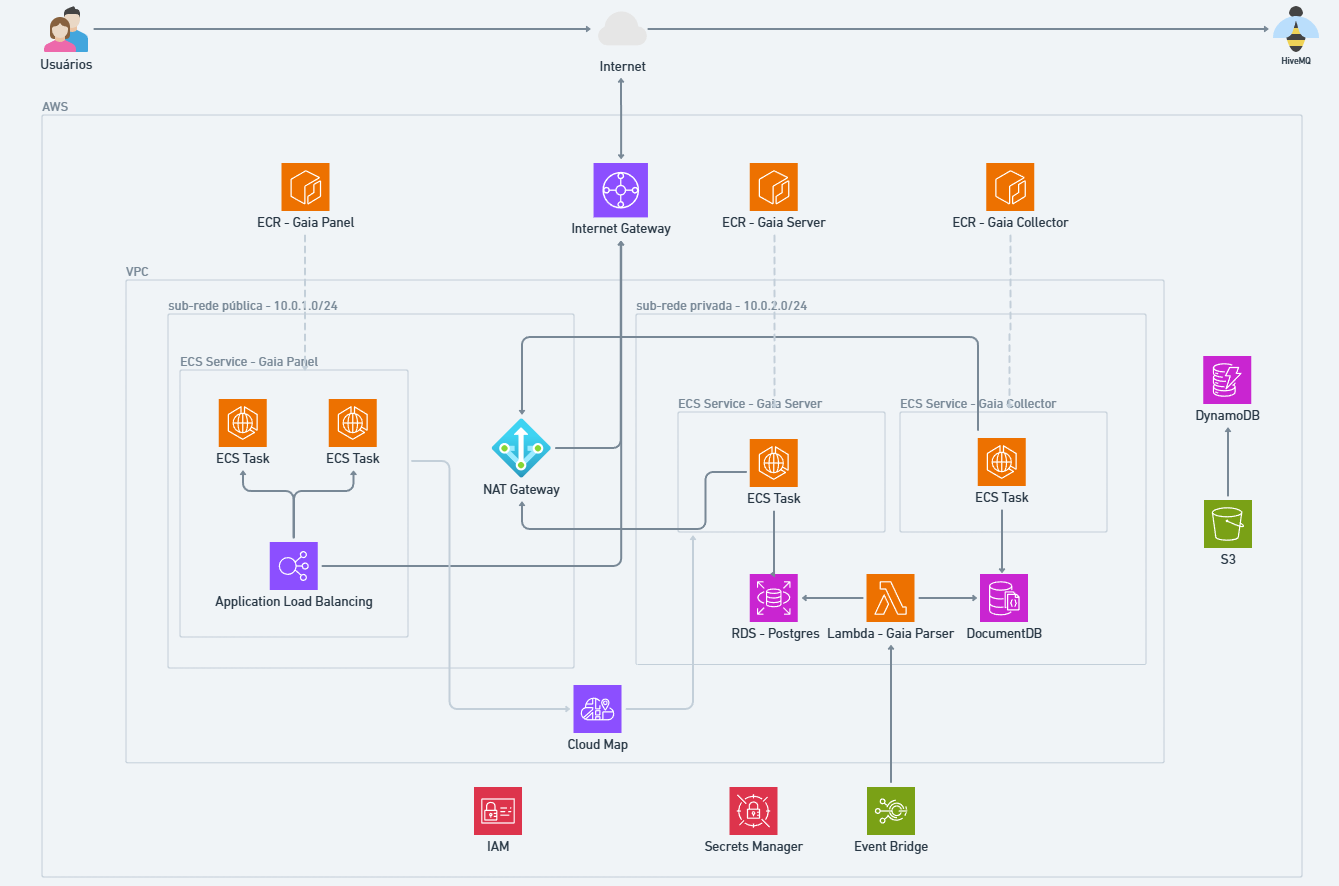
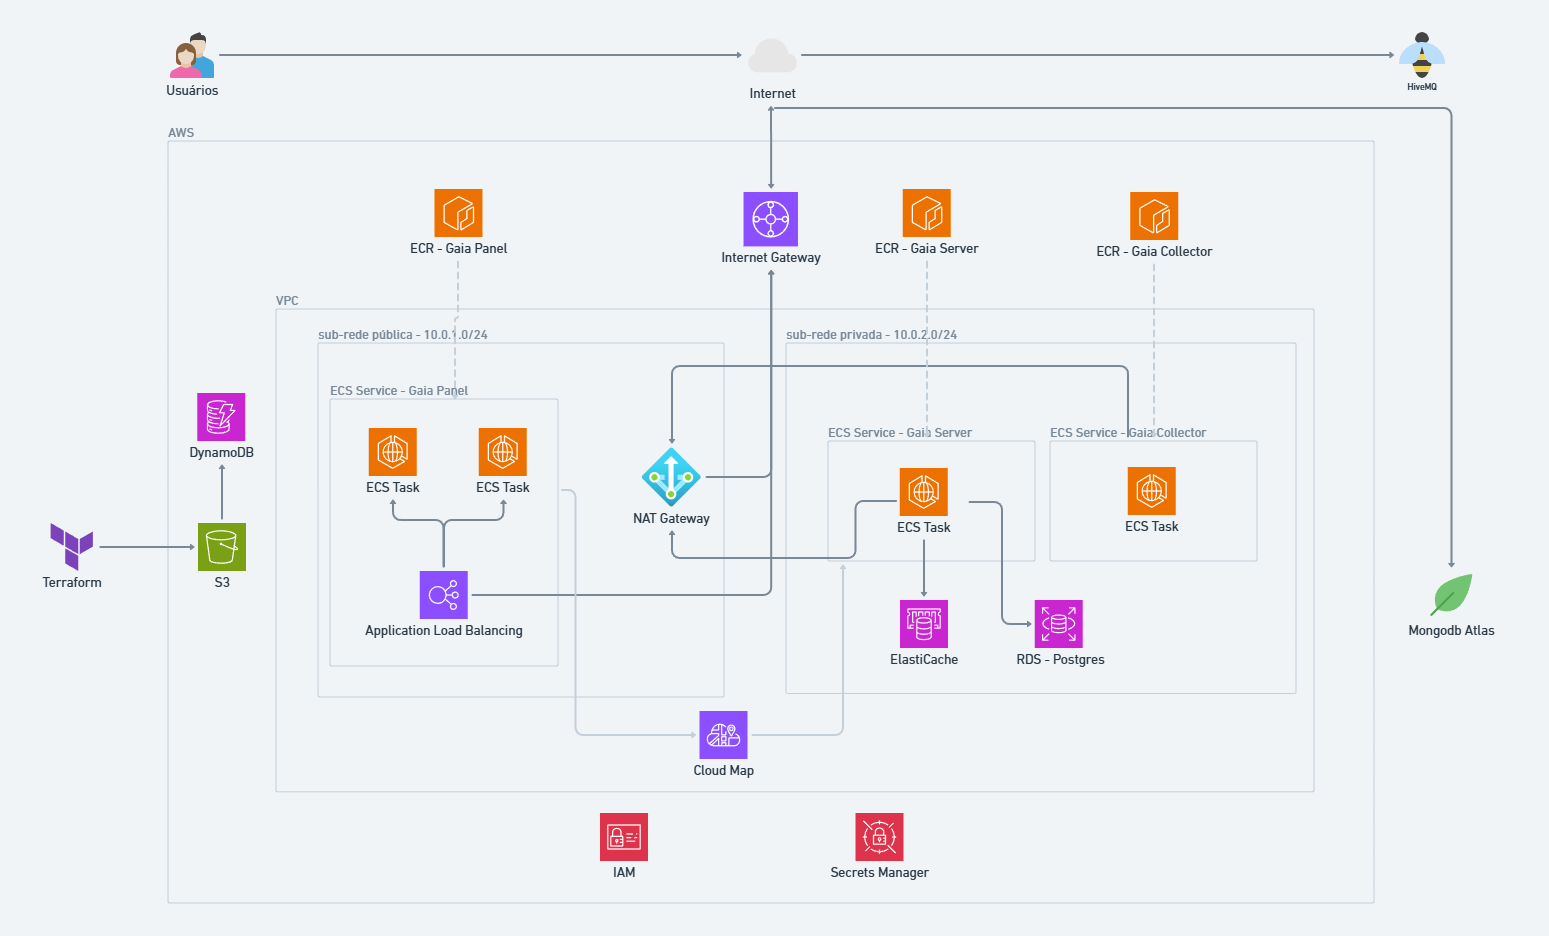
chore: update infra diagram

diff --git a/README.md b/README.md
@@ -12,20 +12,28 @@
 - [Visão Geral](#visão-geral)
 - [Diagrama da Arquitetura](#diagrama-da-arquitetura)
 - [Arquitetura da Infraestrutura](#arquitetura-da-infraestrutura)
-  - [1. A Fundação: Rede Segura (VPC)](#1-a-fundação-rede-segura-vpc)
-  - [2. A Camada Pública: Interação com o Mundo](#2-a-camada-pública-interação-com-o-mundo)
-  - [3. A Camada Privada: O "Cofre" Seguro](#3-a-camada-privada-o-cofre-seguro)
-  - [4. A "Cola": Comunicação e Segurança](#4-a-cola-comunicação-e-segurança)
-  - [5. A Automação: O "Piloto Automático"](#5-a-automação-o-piloto-automático)
+  - [1. Rede e VPC](#1-rede-e-vpc)
+  - [2. Camada Pública](#2-camada-pública)
+  - [3. Camada Privada](#3-camada-privada)
+  - [4. Observabilidade e Custos](#4-observabilidade-e-custos)
+  - [5. Segurança e Segredos](#5-segurança-e-segredos)
 - [Componentes Implementados](#componentes-implementados)
+  - [Provisionados](#provisionados)
+  - [Planejados](#planejados)
 - [Como Usar](#como-usar)
+  - [Pré-requisitos](#pré-requisitos)
+  - [Preparar o Backend Remoto do Terraform](#preparar-o-backend-remoto-do-terraform)
+  - [Configurar Segredos no AWS Secrets Manager](#configurar-segredos-no-aws-secrets-manager)
+  - [Execução Manual](#execução-manual)
+- [Pipelines CI/CD](#pipelines-cicd)
 - [Estrutura do Projeto](#estrutura-do-projeto)
+- [Principais Saídas](#principais-saídas)
 
 ---
 
 ## 🎯 Visão Geral
 
-Sua infraestrutura na AWS foi projetada para hospedar um ecossistema de aplicações (Gaia) de forma segura e escalável. Ela utiliza um modelo de **"defesa em camadas"**, separando os serviços que precisam ser públicos dos serviços de backend e bancos de dados, que permanecem privados e protegidos. Todo o ambiente é gerenciado como código (IaC) com Terraform e implantado automaticamente com pipelines de CI/CD no GitHub Actions.
+A infraestrutura da plataforma Gaia é descrita integralmente em Terraform e provisionada na AWS com foco em segurança, escalabilidade e automação. O desenho separa cargas públicas e privadas em sub-redes distintas, aproveitando Fargate para execução dos contêineres e serviços gerenciados para banco de dados, cache e observabilidade. Os pipelines em GitHub Actions garantem que qualquer alteração passe por validação e deployments consistentes entre ambientes `dev` (staging) e `prod`.
 
 ---
 
@@ -37,70 +45,55 @@ Sua infraestrutura na AWS foi projetada para hospedar um ecossistema de aplicaç
 
 ## 🏗 Arquitetura da Infraestrutura
 
-### 1. A Fundação: Rede Segura (VPC)
+### 1. Rede e VPC
 
-A base de toda a sua infraestrutura é uma **Virtual Private Cloud (VPC)** customizada, que funciona como sua própria rede isolada na AWS. Ela é dividida em:
+- VPC dedicada (`10.0.0.0/16`) com DNS habilitado e quatro sub-redes (duas públicas, duas privadas) distribuídas entre Zonas de Disponibilidade.
+- Internet Gateway expõe apenas a camada necessária, enquanto um NAT Gateway nas sub-redes públicas permite saída controlada a workloads privados.
+- Tabelas de rota isolam tráfego entre camadas, mantendo fluxos explícitos para internet e comunicação leste-oeste.
 
-- **Sub-redes Públicas**: Duas sub-redes em Zonas de Disponibilidade diferentes que se comunicam com a internet através de um Internet Gateway. É a "zona desmilitarizada" (DMZ) da sua arquitetura.
-- **Sub-redes Privadas**: Duas sub-redes também em Zonas de Disponibilidade diferentes que não têm acesso direto da internet. Para que os serviços aqui possam fazer chamadas para fora (ex: baixar atualizações), eles usam um NAT Gateway que fica na sub-rede pública.
+### 2. Camada Pública
 
-### 2. A Camada Pública: Interação com o Mundo
+- **Application Load Balancer (ALB)** recebe o tráfego HTTP, aplica regras de host/path e encaminha requisições para os serviços internos.
+- **Gaia Panel (frontend)** roda em tarefas Fargate nas sub-redes públicas com IPs públicos e se comunica com a camada privada por meio do ALB e do Cloud Map.
 
-Os únicos componentes que interagem diretamente com a internet são:
+### 3. Camada Privada
 
-- **Application Load Balancer (ALB)**: É a porta de entrada para usuários. Ele recebe todo o tráfego web, o distribui para garantir alta disponibilidade e o encaminha para o Gaia Panel.
-- **Serviço Gaia Panel (Frontend)**: Sua aplicação Remix/frontend roda em contêineres gerenciados pelo ECS Fargate nas sub-redes públicas. É a interface com a qual seus usuários interagem.
-- **Instância EC2 com HiveMQ**: Seu broker MQTT roda em uma instância EC2 na sub-rede pública. Isso é necessário para que seus dispositivos IoT, que estão na internet, possam se conectar e publicar dados.
+- **Gaia Server (backend)** executa em Fargate nas sub-redes privadas, exposto via Service Discovery. Consome PostgreSQL, Redis e segredos do Secrets Manager.
+- **Gaia Collector** permanece privado, conectando-se ao broker MQTT (fora do escopo deste módulo) e persistindo dados via `MONGO_URI`.
+- **RDS PostgreSQL** provê armazenamento relacional com subnets privadas e acesso restrito ao servidor de aplicação.
+- **ElastiCache Redis** entrega cache compartilhado ao Gaia Server, com regras de segurança que aceitam tráfego apenas da aplicação.
+- **DocumentDB** permanece planejado; por enquanto, sua conexão é injetada via segredo (`MONGO_URI`) e deve apontar para uma instância existente.
 
-### 3. A Camada Privada: O "Cofre" Seguro
+### 4. Observabilidade e Custos
 
-Esta é a camada principal e protegida, inacessível pela internet.
+- Grupos de logs no CloudWatch (`/ecs/...`) armazenam métricas e registros das tasks do Panel, Server e Collector.
+- Auto Scaling alvo (Application Auto Scaling) ajusta a quantidade de tarefas Fargate conforme o uso de CPU para cada serviço.
+- AWS Budgets integrado a um tópico SNS envia alertas por e-mail quando os custos mensais reais ou previstos superam o limite configurado.
 
-- **Serviço Gaia Server (Backend)**: Sua API NestJS roda em contêineres Fargate nas sub-redes privadas. Ela contém sua lógica de negócios principal.
-- **Serviço Gaia Collector**: Uma aplicação Node.js, também em Fargate na sub-rede privada, cuja única função é se conectar ao broker HiveMQ para "escutar" e coletar os dados dos dispositivos IoT.
-- **Banco de Dados (RDS PostgreSQL)**: Sua base de dados relacional fica na sub-rede privada, garantindo que apenas serviços autorizados (neste caso, o Gaia Server) possam acessá-la.
-- **Banco de Dados (DocumentDB)**: O banco NoSQL para armazenar os dados brutos do Gaia Collector também reside na sub-rede privada.
-- **Função Lambda (Gaia Parser)**: Uma função serverless que também opera dentro da rede privada. Ela é acionada periodicamente pelo EventBridge para ler dados do DocumentDB, processá-los e salvá-los no PostgreSQL.
+### 5. Segurança e Segredos
 
-### 4. A "Cola": Comunicação e Segurança
-
-- **AWS Cloud Map (Service Discovery)**: É o serviço que possibilita a comunicação interna. Quando o Gaia Panel (público) precisa falar com o Gaia Server (privado), ele usa um endereço de DNS privado fornecido pelo Cloud Map (ex: `http://dev-gaia-server-sd.dev.gaia.local`), e a AWS direciona o tráfego de forma segura dentro da VPC.
-- **Security Groups**: Atuam como firewalls em cada camada. O ALB só fala com o Panel, o Panel só fala com o Server, e o Server só fala com o Banco de Dados, criando um fluxo de tráfego estritamente controlado.
-- **IAM (Identity and Access Management)**: Gerencia todas as permissões. As roles do GitHub Actions permitem que suas pipelines de CI/CD interajam com a AWS, e as roles do ECS dão as permissões necessárias para suas aplicações rodarem e se comunicarem.
-- **AWS Secrets Manager**: Armazena de forma centralizada e segura todas as credenciais e chaves de API, que são injetadas nas suas aplicações em tempo de execução.
-
-### 5. A Automação: O "Piloto Automático"
-
-- **Terraform (IaC)**: Todo o sistema descrito acima é definido como código em um repositório (gaia-iac), garantindo consistência e rastreabilidade. O estado do Terraform é armazenado de forma segura no S3 com bloqueio de estado via DynamoDB.
-- **GitHub Actions (CI/CD)**: Você tem pipelines separadas para cada aplicação (server, panel) e para a infraestrutura (iac). Qualquer alteração no código dispara a pipeline correspondente, que automaticamente constrói, testa e implanta a nova versão na AWS sem intervenção manual.
+- Security Groups encadeados controlam cada fluxo: ALB → Panel → Server → RDS/Redis, evitando exposição indevida.
+- IAM com OIDC do GitHub Actions concede permissões mínimas para os repositórios `gaia-iac`, `gaia-server`, `gaia-panel` e `gaia-collector` realizarem deploys e interagirem com a AWS.
+- Secrets Manager guarda credenciais sensíveis e é consumido pelas tasks ECS através das roles configuradas, garantindo rotação e isolamento por ambiente.
+- A política de ECS Exec libera acesso seguro ao console das tasks via Session Manager.
 
 ---
 
 ## 🧩 Componentes Implementados
 
-### ✅ Atualmente Disponíveis
+### ✅ Provisionados
 
-- **🌐 VPC e Networking**: VPC customizada com subnets públicas e privadas
-- **🔒 Security Groups**: Firewall configurado em camadas
-- **⚖ Application Load Balancer**: Distribuição de tráfego HTTP
-- **🐳 ECS Fargate**: Orquestração de containers serverless
-- **🗄 RDS PostgreSQL**: Banco de dados relacional
-- **📦 ECR**: Repositórios para imagens Docker
-- **🔍 Service Discovery**: Comunicação interna via AWS Cloud Map
-- **🔐 Secrets Manager**: Gerenciamento seguro de credenciais
-- **👤 IAM Roles**: Permissões para GitHub Actions e ECS
-- **📊 CloudWatch**: Logs centralizados
-
-### 🚧 Planejados para Implementação
-
-- **📡 HiveMQ em EC2**: Broker MQTT para dispositivos IoT
-- **🔄 Gaia Collector**: Serviço de coleta de dados IoT
-- **📄 DocumentDB**: Banco NoSQL para dados brutos
-- **⚡ Lambda Functions**: Processamento serverless (Gaia Parser)
-- **⏰ EventBridge**: Agendamento de tarefas
-- **🔄 Auto Scaling**: Escalabilidade automática
-- **🛡 WAF**: Web Application Firewall
-- **📈 CloudWatch Alarms**: Monitoramento e alertas
+- 🌐 **VPC e Networking** – Sub-redes públicas/privadas, IGW e NAT configurados.
+- ⚖ **Application Load Balancer** – Regras para frontend e backend, health checks dedicados.
+- 🐳 **ECS Fargate Cluster** – Serviços para Panel, Server e Collector com execution role dedicada.
+- 🗄 **RDS PostgreSQL** – Banco relacional privado com senha gerada dinamicamente.
+- 🔁 **Service Discovery (Cloud Map)** – DNS interno para o Gaia Server.
+- 🔐 **Secrets Manager** – Segredos para banco, Clerk, Mongo e broker MQTT, com IAM restritivo.
+- 📦 **ECR Repositories** – Repositórios para as imagens Panel, Server e Collector.
+- 🚀 **Auto Scaling** – Policies de CPU para ajustar `desired_count` das tasks.
+- 📉 **CloudWatch Logs** – Grupos de logs específicos por serviço.
+- 💸 **Budgets + SNS** – Budget mensal com notificações de custo.
+- 🧠 **ElastiCache Redis** – Endpoint privado usado pelo Gaia Server.
 
 ---
 
@@ -108,66 +101,125 @@ Esta é a camada principal e protegida, inacessível pela internet.
 
 ### Pré-requisitos
 
-- AWS CLI configurado
-- Terraform >= 1.0
-- Credenciais AWS com permissões adequadas
+- Terraform `>= 1.6`
+- AWS CLI configurado com credenciais que possuam privilégios para criar os recursos descritos.
+- Bucket S3 e tabela DynamoDB destinados ao backend remoto (veja abaixo).
+- Acesso ao AWS Secrets Manager para criar/atualizar os segredos exigidos por ambiente.
 
-### Implantação
+### Preparar o Backend Remoto do Terraform
 
-1. **Clone o repositório**:
+O backend definido em `src/provider.tf` assume:
+
+- Bucket S3 `gaia-terraform-state-bucket`
+- Tabela DynamoDB `gaia-terraform-state-lock`
+- Região `us-east-1`
+
+Crie esses recursos previamente ou ajuste os nomes/atributos no arquivo para refletir a sua conta.
+
+### Configurar Segredos no AWS Secrets Manager
+
+Para cada ambiente (workspace do Terraform), crie os seguintes segredos:
+
+- `<workspace>/clerk/credentials`
+  - `CLERK_PUBLISHABLE_KEY`
+  - `CLERK_SECRET_KEY`
+- `<workspace>/mongo/credentials`
+  - `MONGO_URI`
+- `<workspace>/mqtt_broker/credentials`
+  - `MQTT_BROKER_URL`
+  - `MQTT_USERNAME`
+  - `MQTT_PASSWORD`
+  - `MQTT_PORT`
+  - `MQTT_TOPIC`
+
+> O segredo `<workspace>/postgres_db/credentials` é criado automaticamente por este módulo, com senha randômica gerada via Terraform.
+
+### Execução Manual
+
+1. Clone o repositório e acesse a pasta `src`:
    ```bash
    git clone https://github.com/CtrI-Alt-Del/gaia-iac.git
    cd gaia-iac/src
    ```
-
-2. **Configure o workspace do Terraform**:
-   ```bash
-   terraform workspace new dev  # ou staging, production
-   terraform workspace select dev
-   ```
-
-3. **Inicialize o Terraform**:
+2. Inicialize o Terraform:
    ```bash
    terraform init
    ```
-
-4. **Planeje a implantação**:
+3. Selecione (ou crie) o workspace desejado:
    ```bash
-   terraform plan
+   terraform workspace select dev || terraform workspace new dev
+   ```
+4. Ajuste as variáveis conforme necessário em `envs/<workspace>.tfvars`.
+5. Planeje e aplique as mudanças:
+   ```bash
+   terraform plan  -var-file="envs/dev.tfvars"
+   terraform apply -var-file="envs/dev.tfvars"
    ```
 
-5. **Aplique as mudanças**:
-   ```bash
-   terraform apply
-   ```
+---
 
-### Variáveis de Ambiente
+## 🤖 Pipelines CI/Deployment
 
-As principais variáveis podem ser configuradas em `variables.tf`:
+Os workflows do GitHub Actions automatizam validações e deploys:
 
-- `aws_region`: Região AWS (padrão: us-east-1)
-- `gaia_panel_container_port`: Porta do frontend (padrão: 3000)
-- `gaia_server_container_port`: Porta do backend (padrão: 3333)
-- `gaia_server_app_mode`: Modo da aplicação (padrão: staging)
+- **Continuous Integration (`.github/workflows/ci.yaml`)** é um workflow reutilizável que executa `terraform fmt -check`, `terraform validate` e `terraform plan`. Recebe o ambiente como entrada.
+- **Staging Deployment** (`staging-deployment.yaml`) roda em cada push na branch `main`, chamando o workflow de deployment com `environment=dev`.
+- **Production Deployment** (`production-deployment.yaml`) é disparado em pushes para a branch `production`, aplicando `envs/prod.tfvars`.
+- **Production CI** (`production-ci.yaml`) é acionado em pull requests para a branch `production`, garantindo que alterações críticas passem por `plan` antes do merge.
+
+Configure no repositório:
+
+- Secrets `AWS_ROLE_ARN` e `AWS_REGION` com os valores usados para assumir a role IAM.
+- Repository variable `TERRAFORM_VERSION` com a versão que deve ser instalada nas ações.
 
 ---
 
 ## 📁 Estrutura do Projeto
 
 ```
+documentation/
+└── media/
+    └── infra-diagram.png     # Diagrama de referência da arquitetura
+
 src/
-├── provider.tf              # Configuração do provider AWS
-├── variables.tf             # Variáveis do projeto
-├── outputs.tf               # Outputs da infraestrutura
-├── vpc.tf                   # VPC, subnets e security groups
-├── alb.tf                   # Application Load Balancer
-├── ecs.tf                   # ECS cluster e services
-├── rds.tf                   # Banco de dados PostgreSQL
-├── ecr.tf                   # Repositórios Docker
-├── iam.tf                   # Roles e políticas IAM
-├── secrets_manager.tf       # Gerenciamento de secrets
-├── service_discovery.tf     # AWS Cloud Map
-└── s3.tf                    # Bucket para Terraform state
+├── alb.tf                   # Application Load Balancer e listeners
+├── autoscalling.tf          # Regras de auto scaling para os serviços ECS
+├── budgets.tf               # Budget mensal conectado ao SNS
+├── ecr.tf                   # Repositórios ECR das aplicações
+├── ecs.tf                   # Cluster e serviços ECS (Panel, Server, Collector)
+├── elasticache.tf           # Replication group Redis e subnet/security groups
+├── envs/
+│   ├── dev.tfvars           # Overrides para o ambiente de desenvolvimento
+│   └── prod.tfvars          # Overrides para o ambiente de produção
+├── iam.tf                   # Roles, policies e integrações com OIDC
+├── outputs.tf               # Saídas importantes da stack
+├── provider.tf              # Provider AWS e backend remoto em S3/DynamoDB
+├── rds.tf                   # Instância PostgreSQL e subnet group
+├── secrets_manager.tf       # Segredos gerenciados e senhas randômicas
+├── service_discovery.tf     # Namespace privado e serviço no Cloud Map
+├── sns.tf                   # Tópico e assinatura para alertas de budget
+├── variables.tf             # Variáveis com defaults e descrições
+└── vpc.tf                   # VPC, sub-redes, NAT, IGW e security groups
+
+.github/
+└── workflows/
+    ├── ci.yaml
+    ├── deployment.yaml
+    ├── production-ci.yaml
+    ├── production-deployment.yaml
+    └── staging-deployment.yaml
 ```
 
+---
 
+## 📤 Principais Saídas
+
+Após aplicar o Terraform, utilize `terraform output` para obter:
+
+- `alb_dns_name` – endpoint público do ALB.
+- `ecr_repository_url` – URL do ECR para publicar a imagem do Gaia Server.
+- `db_endpoint` – endpoint interno do PostgreSQL.
+- `db_credentials_secret_arn` – ARN do segredo com usuário/senha do banco.
+- `elasticache_primary_endpoint` – endpoint do cluster Redis para o Gaia Server.
+
+---
